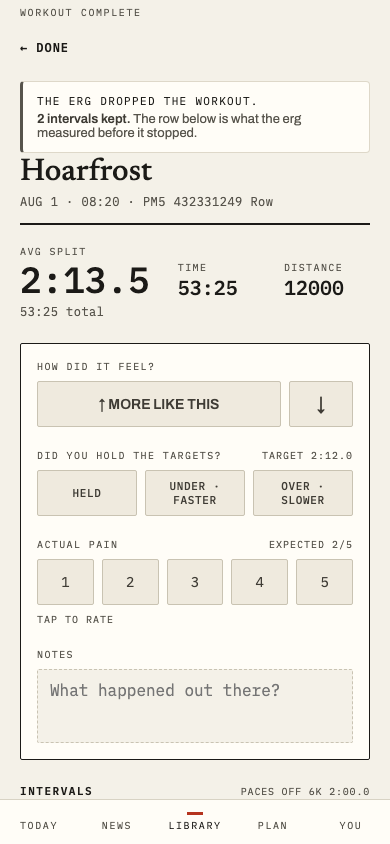
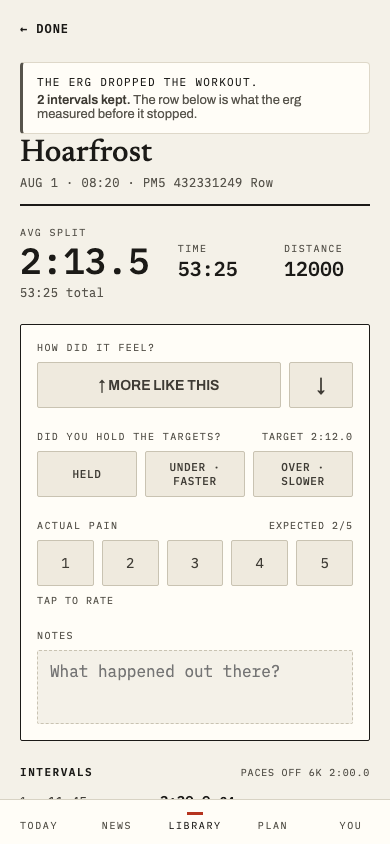
Regenerate log-monitor-dropped.png, resolve the ROADMAP eyebrow register row
The dropped-arrival capture now shows the real fix: WORKOUT COMPLETE is
gone, the screen starts at ← DONE, THE ERG DROPPED THE WORKOUT. strip
follows immediately, no layout gap. Regenerated via `pnpm screenshots`
(85 passed, 48.9s).

Also reverted 21 other screenshot diffs the same run produced — none show
the eyebrow (checked post-workout-summary-manual.png, the manual door,
which never sets the flag; log-monitor-landscape.png, which crops the
eyebrow entirely out of frame) and this repo's own documented flake
(ROADMAP's Tooling section: "13 of 83 committed screenshots are NOT
byte-stable across two consecutive runs") accounts for the rest — most of
the reverted captures carry a live wall-clock timestamp in frame.

ROADMAP.md's open-item register row rewritten RESOLVED, citing James's
PR #248 ruling and the implementation shape, in place.

Claude-Session: https://claude.ai/code/session_01Tug53SpxQ4PVXkTVHM8bZL

diff --git a/ROADMAP.md b/ROADMAP.md
@@ -999,18 +999,17 @@ X" is a real disposition — most of these are single files.
   already REJECTS leading rest, so only the consecutive case is live. Evidence:
   `docs/superpowers/audits/2026-08-28-codebase-integrity/findings.md`
   (§AUD-006, §V4).
-- **The dropped-arrival log screen reads `WORKOUT COMPLETE` two lines above
-  `THE ERG DROPPED THE WORKOUT.`** `.summary-eyebrow`
-  (`PostWorkoutSummary.tsx:655`) is unconditional and predates this work
-  (link-lost/interrupted arrivals already show it); the Gate-0 artifact's
-  mock drew a nav bar where the real screen has the eyebrow, so the
-  juxtaposition was invisible at the gate. James decides: keep, or suppress
-  the eyebrow (that change is itself Gate-0 copy). **Scoped at the PM gate:
-  a suppression must cover all THREE arrival types that did not complete —
-  dropped, link-lost, and interrupted — or the fix ships a screen that
-  tells the truth on drops and keeps lying on the other two.** Found at
-  PR #248's final whole-branch review, re-scoped at its PM gate,
-  2026-08-31.
+- **RESOLVED (James, PR #248 review, 2026-08-31): "My recommendation is to
+  suppress the completion eyebrow"** — the dropped-arrival log screen no
+  longer reads `WORKOUT COMPLETE` two lines above `THE ERG DROPPED THE
+  WORKOUT.` Scoped across all THREE arrival types that did not complete,
+  never a drop-only fork: `.summary-eyebrow` now suppresses on
+  `endedBy === "program-dropped" | "link-lost" | "interrupted"`
+  (`SummaryModel.suppressCompletionEyebrow`, derived in `buildMonitorModel`
+  from the same `run.endedBy` the door already reads), and renders exactly
+  as before everywhere else — `"finished"`, `"rower"`, `"program-failed"`,
+  absent, and every timer/manual-door summary. Implemented in the same PR's
+  fix round; `log-monitor-dropped.png` regenerated.
 - **The server's `EndedBy` mirror can be derived, not hand-copied.**
   `server/stores/logs.ts` already imports `../db/schema.js`, so
   `export type EndedBy = (typeof endedByEnum.enumValues)[number]` plus
